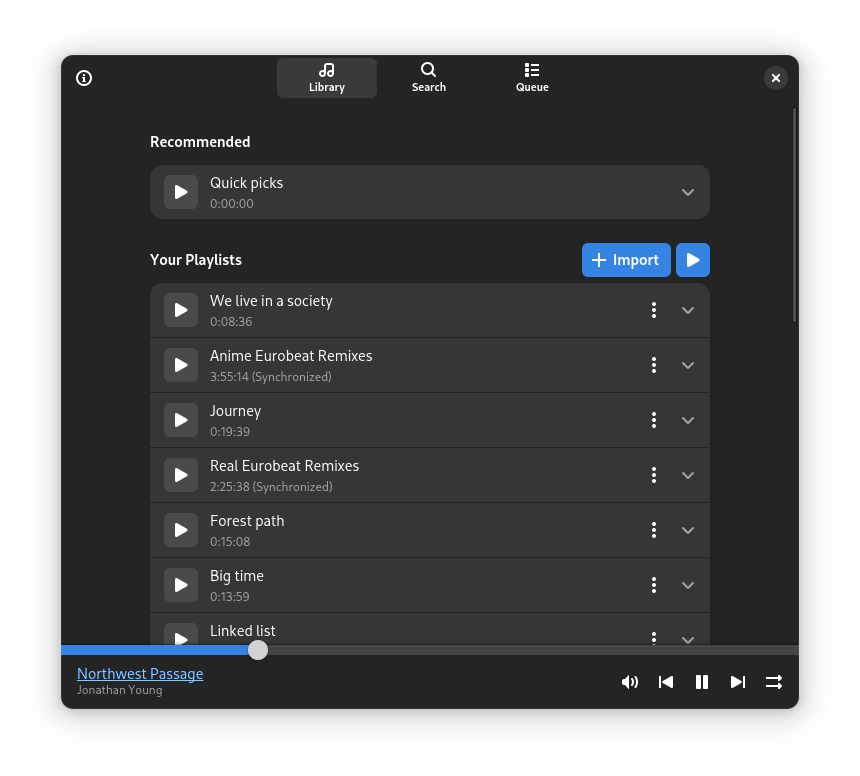
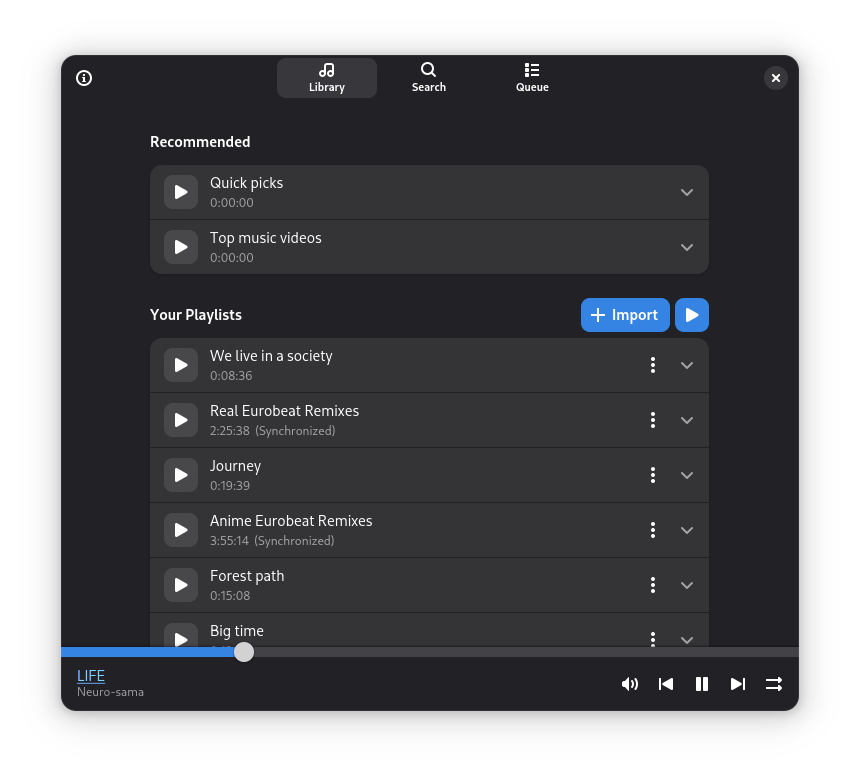
Release v3.2.0

diff --git a/source/monophony/__init__.py b/source/monophony/__init__.py
@@ -1,2 +1,2 @@
-__version__ = '3.1.5'
+__version__ = '3.2.0'
 APP_ID = 'io.gitlab.zehkira.Monophony'
